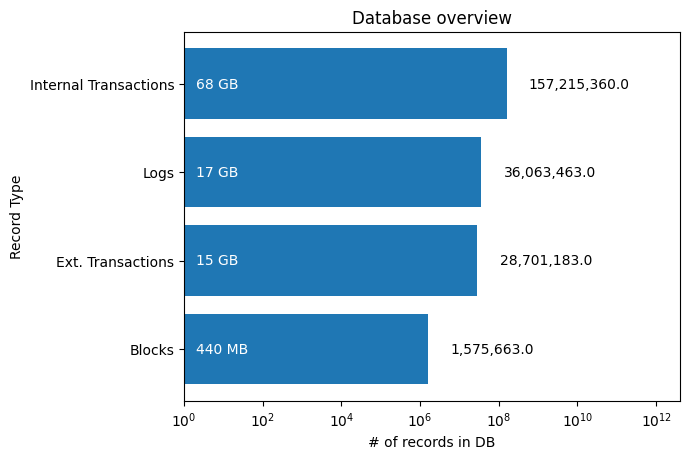
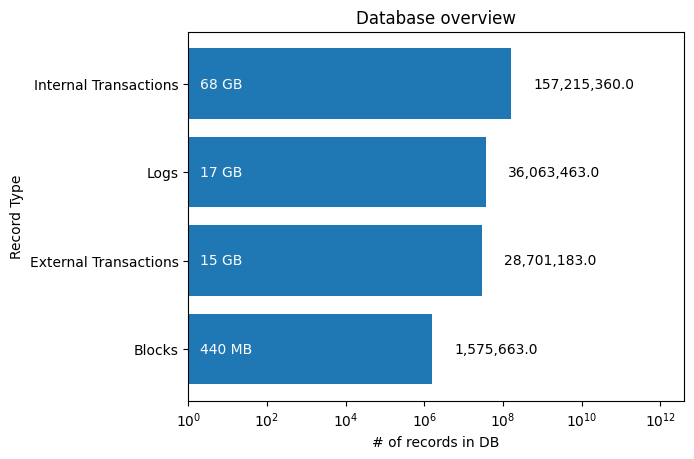
feat: update plot_overview y labels

diff --git a/etc/query_tool.py b/etc/query_tool.py
@@ -55,7 +55,7 @@ async def cmd_plot_overview(conn, args):
 
     # Save as figure 1
     fig, ax = plt.subplots()
-    bar_names = ("Blocks", "Ext. Transactions", "Logs", "Internal Transactions")
+    bar_names = ("Blocks", "External Transactions", "Logs", "Internal Transactions")
     counts = [n_blocks, n_txs, n_logs, n_internal_txs]
 
     # ax.bar(bar_names, counts)
